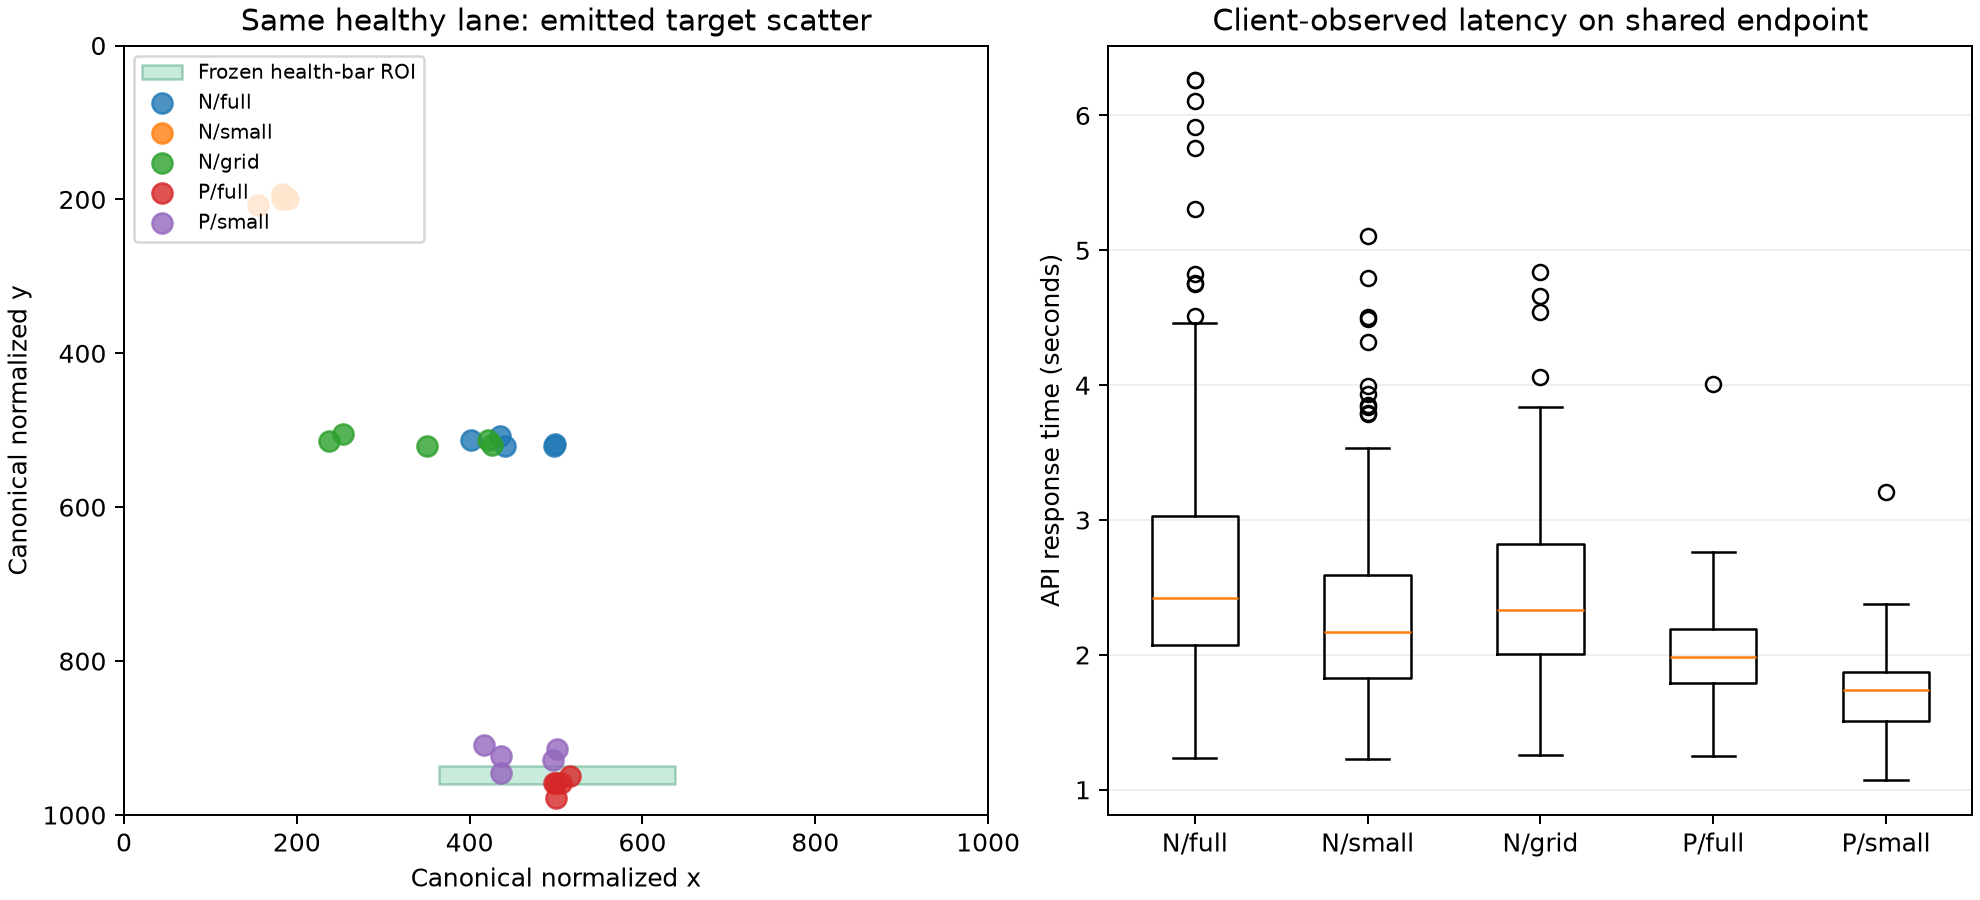
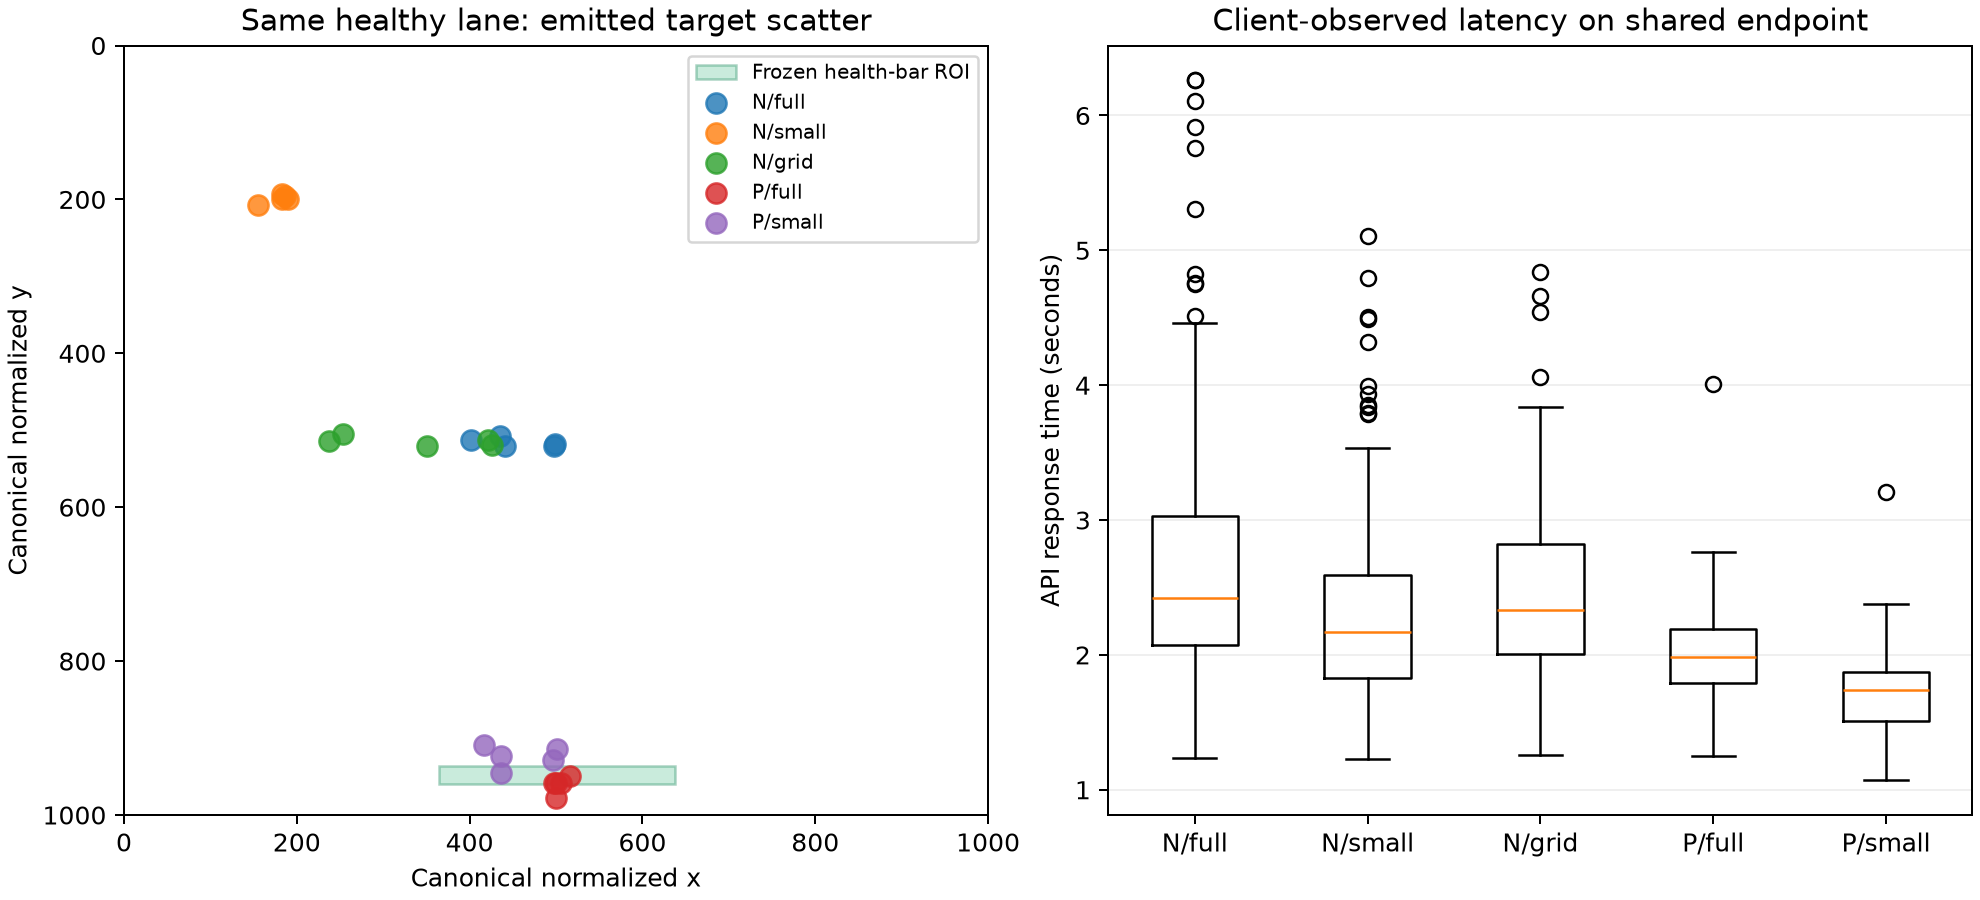
Keep plot legends clear of observations and finalize artifact hashes

Changed region(s): [[0.0616, 0.0622, 0.2157, 0.28], [0.3389, 0.0622, 0.4929, 0.28]]

diff --git a/scripts/plot_screenshot_results.py b/scripts/plot_screenshot_results.py
@@ -86,7 +86,7 @@ def main():
         ylabel="Canonical normalized y",
         title="Same healthy lane: emitted target scatter",
     )
-    ax.legend(loc="upper left", fontsize=8)
+    ax.legend(loc="upper right", fontsize=8)
     axes[1].boxplot(
         [
             [r["model"]["api_ms"] / 1000 for r in rows if r["variant"] == variant]
